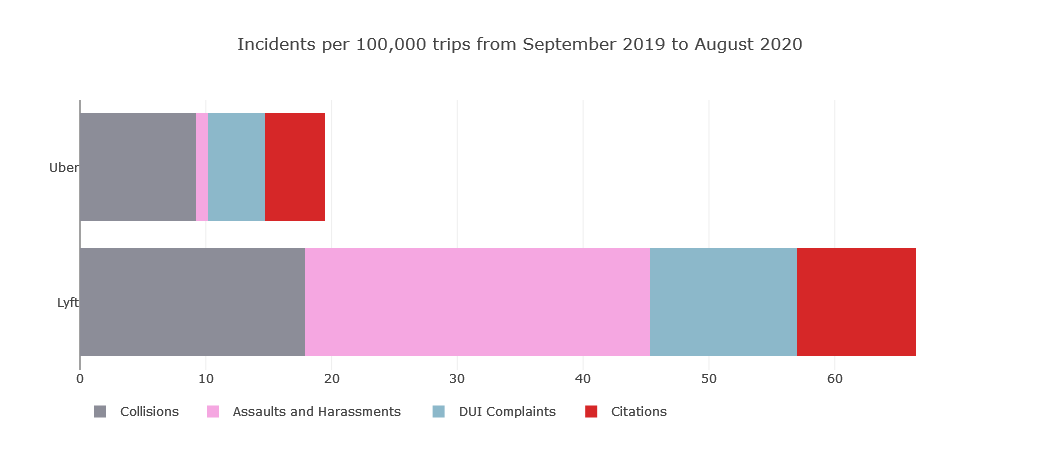
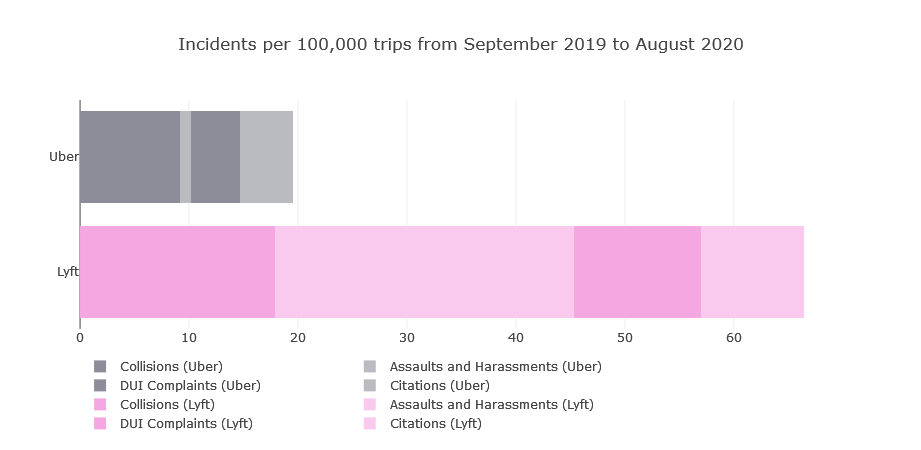
fix plot colors for uber/lyft

diff --git a/layouts/shortcodes/plotly_bar.html b/layouts/shortcodes/plotly_bar.html
@@ -10,6 +10,8 @@
 {{ $bw := .Get "bw" | default "auto" }}
 {{ $yaxis_label := .Get "yaxis_label" | default "" }}
 {{ $xaxis_label := .Get "xaxis_label" | default "" }}
+{{ $xrange_min := .Get "xrange_min" | default "auto" }}
+{{ $xrange_max := .Get "xrange_max" | default "auto" }}
 
 <div id='{{ .Get "id" }}' style="height:{{$height}};width:{{$width}}">
 
@@ -33,6 +35,27 @@
         },
         'uberlyft': {
             'color': ['', '#696b77', '#babbc1', '#f5a7e1', '#f9caed'],
+        },
+        'uber2': {
+            'color': ['', '#c6c6cb', '#8c8d98'],
+        },
+        'uber3': {
+            'color': ['', '#e6e7e8', '#c6c6cb', '#8c8d98'],
+        },
+        'uber4': {
+            'color': ['', '#8c8d98', '#babbc1', '#8c8d98', '#babbc1'],
+        },
+        'lyft2': {
+            'color': ['', '#fad3f0', '#f5a7e1'],
+        },
+        'lyft3': {
+            'color': ['', '#e6e7e8', '#fad3f0', '#f5a7e1'],
+        },
+        'lyft4': {
+            'color': ['', '#f5a7e1', '#f9caed', '#f5a7e1', '#f9caed'],
+        },
+        'grey_ta':{
+            'color': ['', '#e6e7e8', '#cfe7e5', '#9fcfca'],
         },
         'ta': {
             'color': ['', '#006c69', '#a0d0cb', '#b9d9ec', '#ffb81d', '#c41d4a', '#1c355e'],
@@ -118,6 +141,7 @@
                     title: {text: {{ $xaxis_label }},
                             standoff: 20},
                     automargin: true,
+                    range: [{{$xrange_min}}, {{$xrange_max}}]
                     },
             barmode: {{ $bmode }},
             legend: {"orientation": "h", "traceorder": "normal"},
@@ -143,6 +167,7 @@
                     title: {text: {{ $xaxis_label }},
                             standoff: 40},
                     automargin: true,
+                    range: [{{$xrange_min}}, {{$xrange_max}}]
                     },
             yaxis: {
                     rangemode: 'tozero',

diff --git a/content/ch4_public_safety.md b/content/ch4_public_safety.md
@@ -51,7 +51,8 @@ Uber’s, Lyft’s DUI complaints were over 2.5 times Uber’s, and Lyft’s cit
 Uber’s. These figures suggest that the companies may be reporting public safety
 incidents differently, pointing to the need for increased review by regulators.
 
-{{% plotly_bar id="Fig14" csvfile="content/ch4_public_safety/public_safety_incidents_rate.csv" height="full" width="full" style="tnc" bmode="stack" orientation="h" %}}
+{{% plotly_bar id="Fig14" title="Incidents per 100,000 trips from September 2019 to August 2020" csvfile="content/ch4_public_safety/public_safety_incidents_rate-uber.csv" height="full" width="full" style="uber4" bmode="stack" orientation="h" %}}
+{{% plotly_bar id="Fig14" csvfile="content/ch4_public_safety/public_safety_incidents_rate-lyft.csv" height="full" width="full" style="lyft4" bmode="stack" orientation="h" %}}
 <figcaption>Figure 14. Incidents per 100,000 trips from September 2019 to August 2020</figcaption><br/>
 
 ## Where did public safety incidents occur?
@@ -237,14 +238,16 @@ of incident. Figure 16 shows the total driver suspensions for each company. Lyft
 suspended nearly 5 times the number of drivers as Uber. Lyft also permanently
 suspended 50% more drivers than Uber.
 
-{{% plotly_bar id="Fig16" csvfile="content/ch4_public_safety/suspensions.csv" height="full" width="full" style="tnc" bmode="stack" orientation="h" %}}
+{{% plotly_bar id="Fig16" csvfile="content/ch4_public_safety/suspensions-uber.csv" height="full" width="full" style="uber2" bmode="stack" orientation="h" %}}
+{{% plotly_bar id="Fig16" csvfile="content/ch4_public_safety/suspensions-lyft.csv" height="full" width="full" style="lyft2" bmode="stack" orientation="h" %}}
 <figcaption>Figure 16. Driver Suspensions from September 2019 to August 2020</figcaption><br/>
 
 Figure 17 shows driver suspension rates by company. Lyft suspended drivers at
 more than 11 times the rate of Uber and permanently suspended drivers at 15 times
 the rate of Uber.
 
-{{% plotly_bar id="Fig17" csvfile="content/ch4_public_safety/suspension_rates.csv" height="full" width="full" style="tnc" bmode="stack" orientation="h" %}}
+{{% plotly_bar id="Fig17" csvfile="content/ch4_public_safety/suspension_rates-uber.csv" height="full" width="full" style="uber2" bmode="stack" orientation="h" %}}
+{{% plotly_bar id="Fig17" csvfile="content/ch4_public_safety/suspension_rates-lyft.csv" height="full" width="full" style="lyft2" bmode="stack" orientation="h" %}}
 <figcaption>Figure 17. Driver Suspensions per 100,000 Trips from September 2019 to August 2020</figcaption><br/>
 
 These two figures reveal either that each company has significantly different

diff --git a/content/ch3_general.md b/content/ch3_general.md
@@ -154,7 +154,9 @@ successfully matched with another passenger. In
 other words, more than half of pool-requested
 trips are functionally solo TNC trips.
 
-{{% plotly_bar id="Fig9" csvfile="content/ch3_general/pool_totals-percentages.csv" height="full" width="full" style="tnc" bmode="stack" orientation="h" %}}
+{{% plotly_bar id="Fig9" csvfile="content/ch3_general/pool_totals-percentages-uber.csv" height="full" width="full" style="uber3" bmode="stack" orientation="h" %}}
+{{% plotly_bar id="Fig9" csvfile="content/ch3_general/pool_totals-percentages-lyft.csv" height="full" width="full" style="lyft3" bmode="stack" orientation="h" %}}
+{{% plotly_bar id="Fig9" csvfile="content/ch3_general/pool_totals-percentages-total.csv" height="full" width="full" style="grey_ta" bmode="stack" orientation="h" %}}
 <figcaption>Figure 9. Pooling of Completed Trips from September 2019 to August 2020</figcaption><br/>
 
 Pooling services were suspended starting in March 2020 due to the COVID

diff --git a/content/ch0_exec_summ.md b/content/ch0_exec_summ.md
@@ -98,7 +98,8 @@ Figure 2 shows the incident rate per hundred
 thousand trips and suggests that the companies may be reporting public safety
 incidents differently, pointing to the need for increased review by regulators.
 
-{{% plotly_bar id="Fig2" csvfile="content/ch4_public_safety/public_safety_incidents_rate.csv" height="full" width="full" style="tnc" bmode="stack" orientation="h" %}}
+{{% plotly_bar id="Fig2" csvfile="content/ch4_public_safety/public_safety_incidents_rate-uber.csv" height="full" width="full" style="uber4" bmode="stack" orientation="h" xrange_min="0" xrange_max="70" %}}
+{{% plotly_bar id="Fig2" csvfile="content/ch4_public_safety/public_safety_incidents_rate-lyft.csv" height="full" width="full" style="lyft4" bmode="stack" orientation="h" xrange_min="0" xrange_max="70" %}}
 <figcaption>Figure 2. Incidents per 100,000 trips from September 2019 to August 2020</figcaption><br/>
 
 ### LABOR
